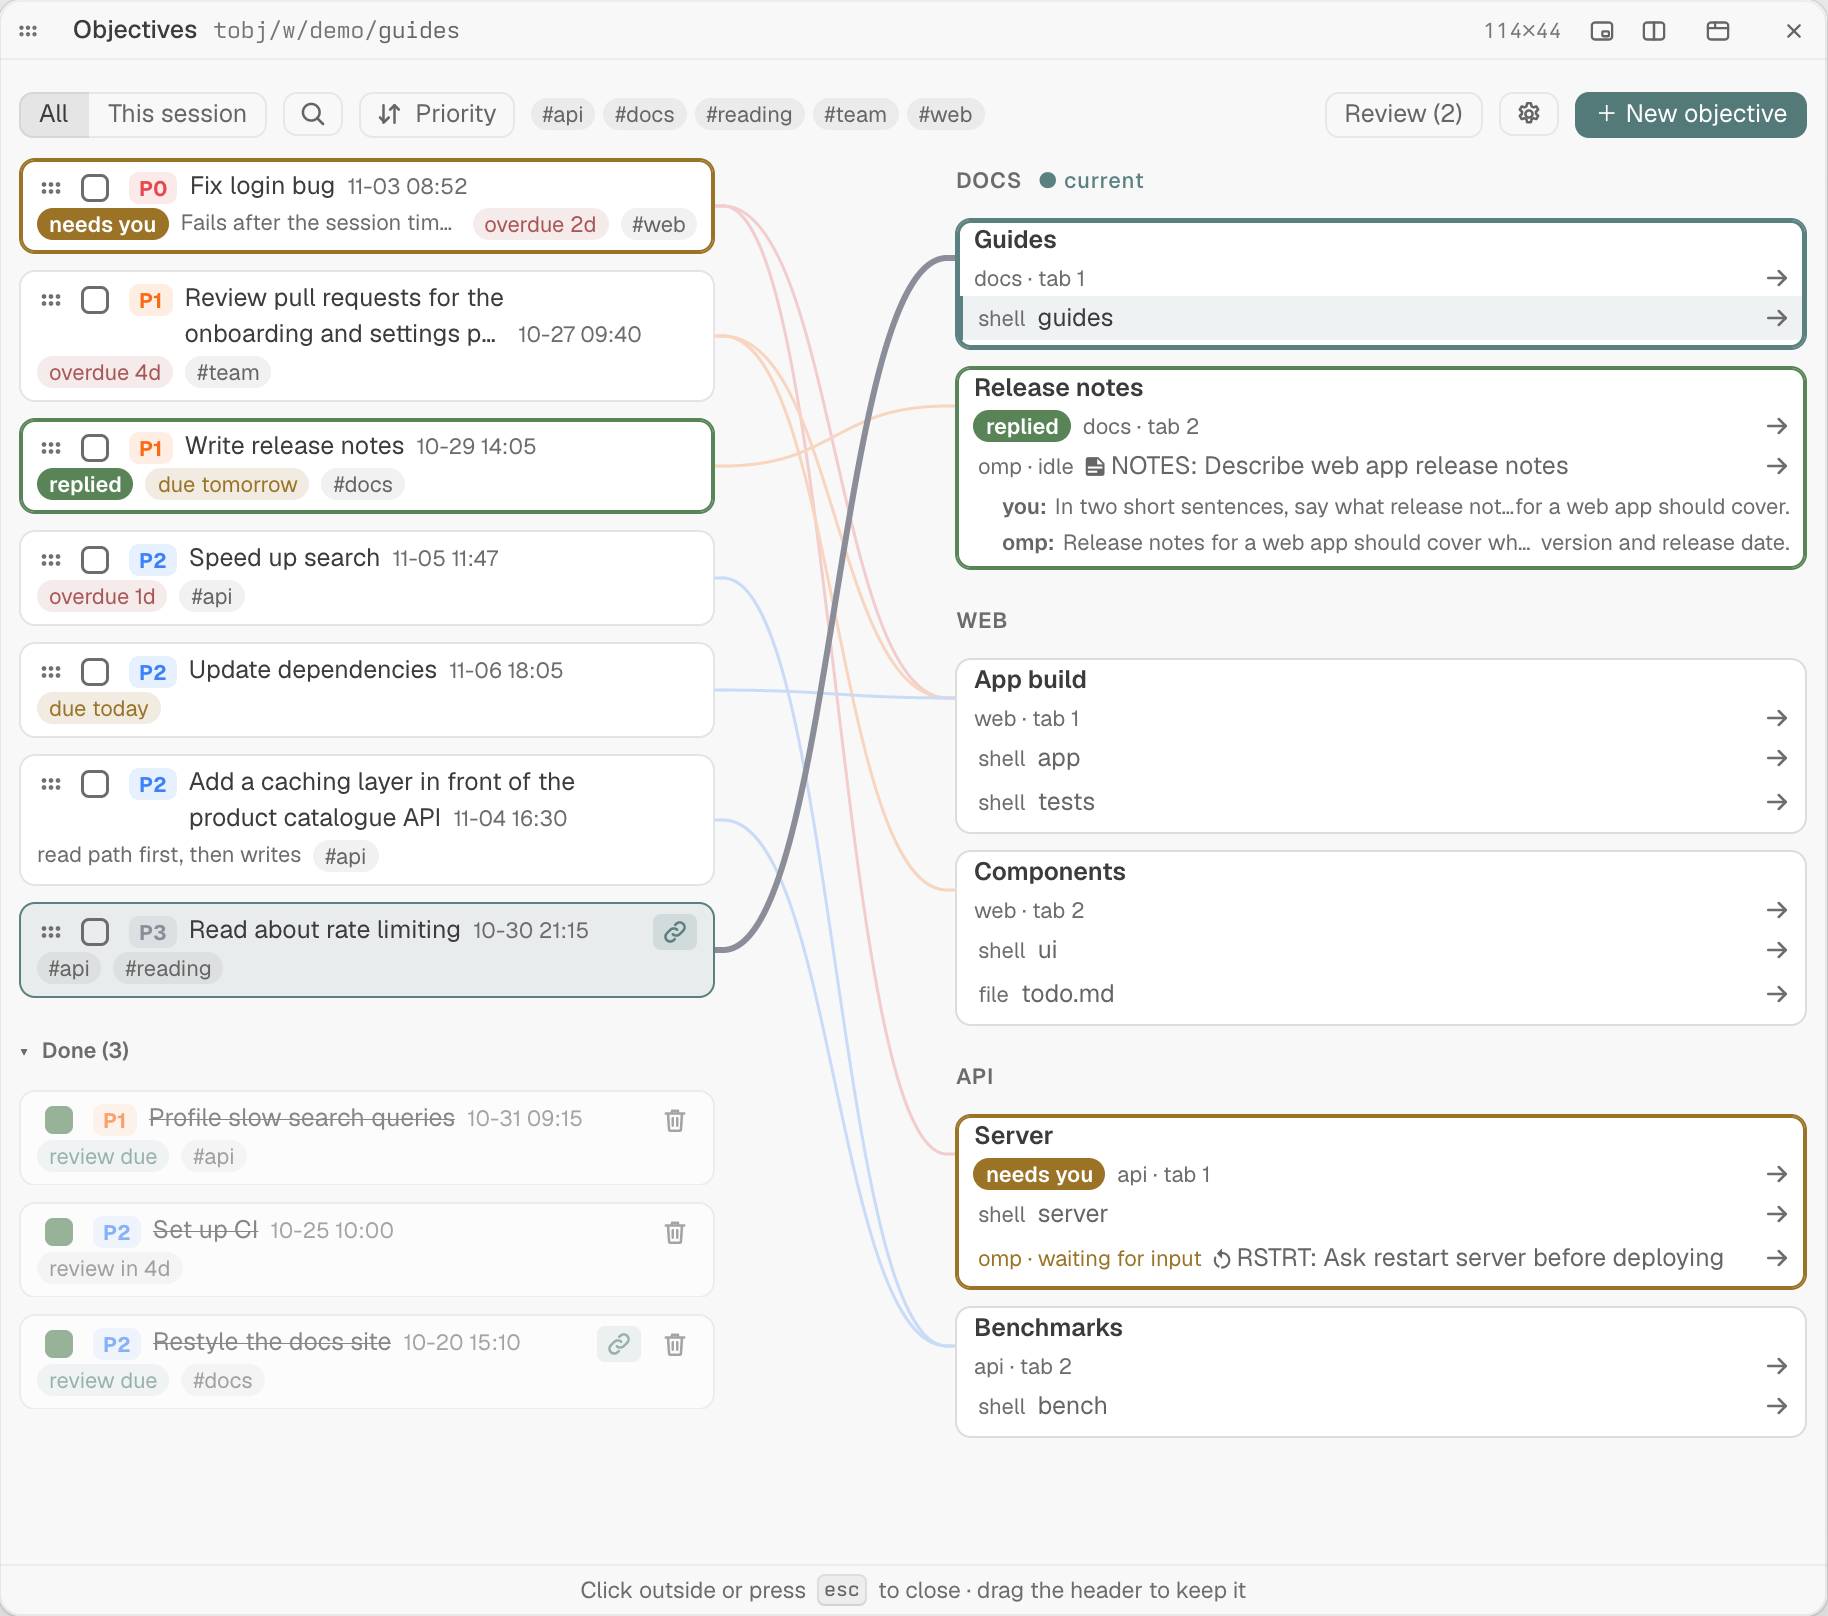
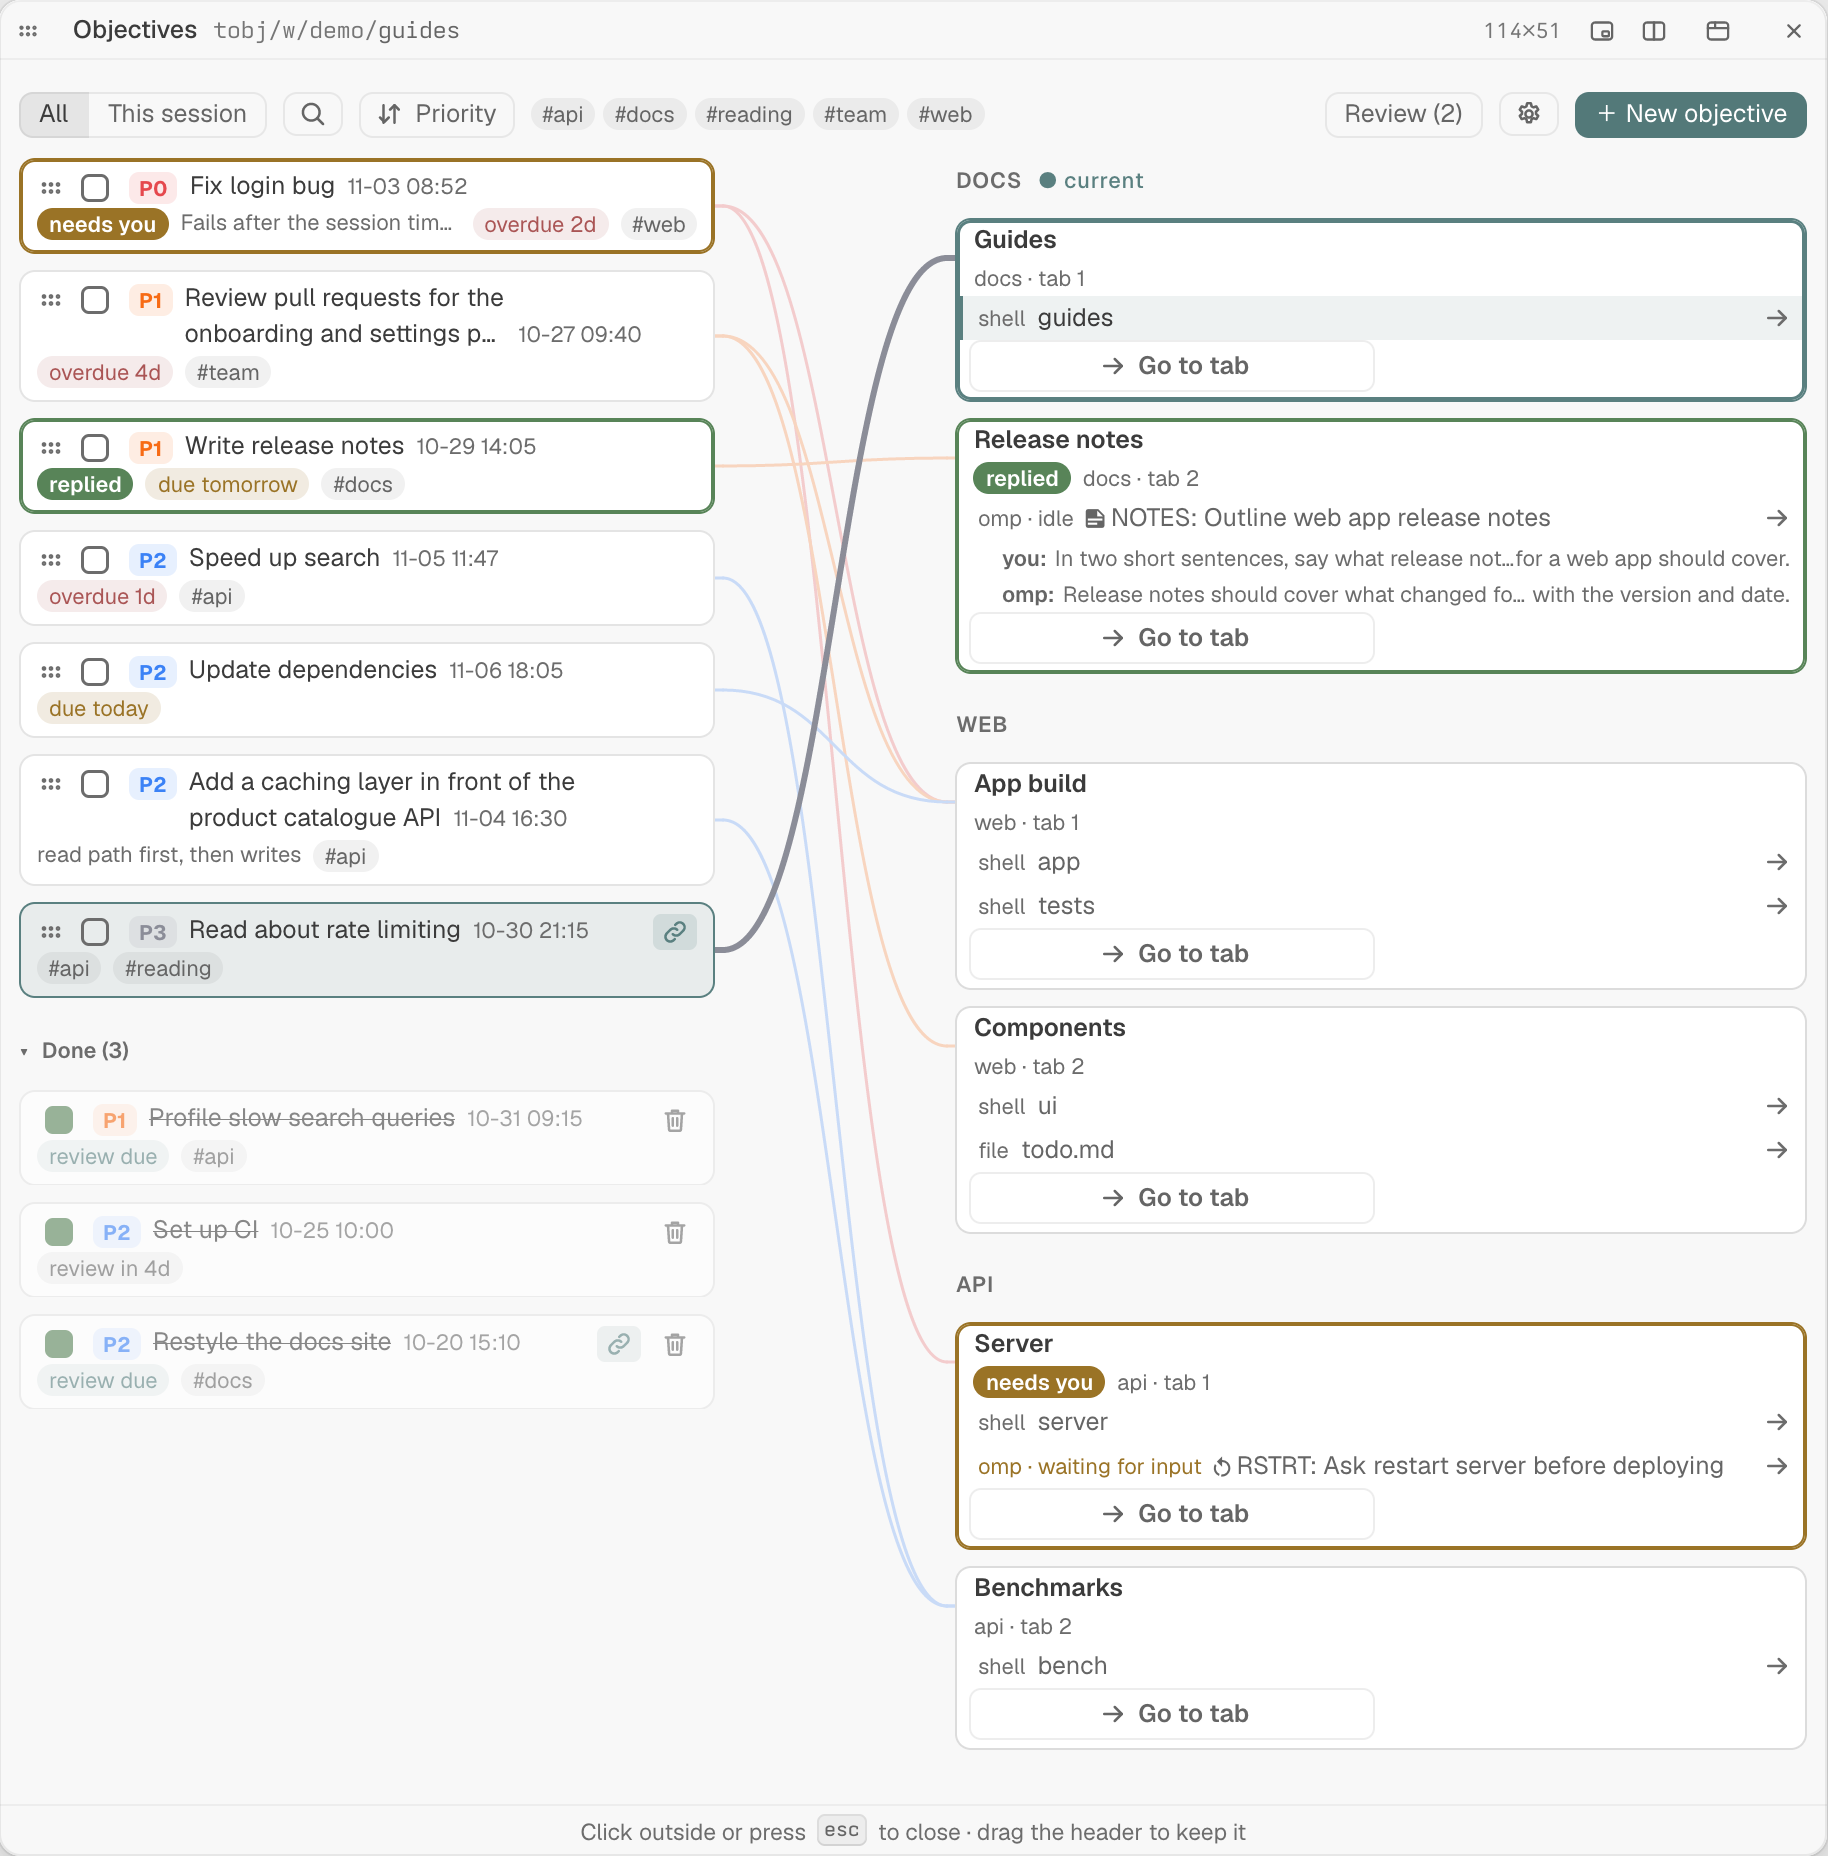
Retake both README screenshots with Go to tab (select-tab-nodes 7.1)

diff --git a/README.md b/README.md
@@ -2,7 +2,7 @@
 
 A [Tern](https://docs.stencil.so/tern) plugin for keeping track of what you are working on across sessions, and for remembering what you finished. It keeps one list of objectives and links each one to the tabs where its work happens, shown as a graph: objectives on the left, tabs on the right, a line for every link. Click a tab to see which objectives it serves, or its **Go to tab** button to jump straight to it, in any session. Finished objectives come back for review on a spaced-repetition schedule, so you revisit what you did before you forget it.
 
-![The objectives graph, opened from the Guides tab: open objectives on the left by priority, P0 first, each with a grip to move it, a priority, due date and tags, two of them with titles wrapped onto two lines; "Fix login bug" ringed in amber with a "needs you" chip, and "Write release notes" in green with "replied"; "Read about rate limiting", which links Guides, tinted, with a thick line to Guides while the other lines fade, and its link icon highlighted at the right of its title; below them the open Done group, also by priority, its objectives marked "review due" or "review in 4d", where "Restyle the docs site", which also links Guides, shows its highlighted link icon beside its trash icon; the header has a Search button and a sort button reading "Priority" after All and This session, "Review (2)", a gear button for Configure and "＋ New objective"; tabs grouped by session on the right, with a line for each link, each tab's header ending in an arrow that goes to it, above its pane rows' arrows: "Release notes" ringed in green with "replied", its open chat row showing "you:" and "omp:", and "Server" ringed in amber with "needs you" for its omp chat waiting for input](docs/graph.png)
+![The objectives graph, opened from the Guides tab: open objectives on the left by priority, P0 first, each with a grip to move it, a priority, due date and tags, two of them with titles wrapped onto two lines; "Fix login bug" ringed in amber with a "needs you" chip, and "Write release notes" in green with "replied"; "Read about rate limiting", which links Guides, tinted, with a thick line to Guides while the other lines fade, and its link icon highlighted at the right of its title; below them the open Done group, also by priority, its objectives marked "review due" or "review in 4d", where "Restyle the docs site", which also links Guides, shows its highlighted link icon beside its trash icon; the header has a Search button and a sort button reading "Priority" after All and This session, "Review (2)", a gear button for Configure and "＋ New objective"; tabs grouped by session on the right, with a line for each link, each tab ending in a "Go to tab" button under its pane rows: "Release notes" ringed in green with "replied", its open chat row showing "you:" and "omp:", and "Server" ringed in amber with "needs you" for its omp chat waiting for input](docs/graph.png)
 
 ## Features
 
@@ -23,7 +23,7 @@ Marking an objective done schedules its first review for the next day, on the SM
 
 Review mode stays on when you close the graph: the next time you open it in the same window, it lists what is due then. Click the active **Review (n)** to leave it. ⌥N leaves it too, so the new objective shows in the list. Restarting Tern forgets it.
 
-![Review mode: two done objectives due for review, each with Hard, Good and Easy buttons showing the days until its next review (Hard · 1d, Good · 3d, Easy · 4d for one, Hard · 2d, Good · 10d, Easy · 14d for the other); the selected one shows its Note and Tags buttons and has a green line to the tab it was linked to, listed under "Linked to" at the top of the right column, where every tab's header ends in an arrow that goes to it and every tab offers "× Unlink" or "＋ Link"; the other links Guides, the tab the graph was opened from, so its link icon is highlighted beside its trash icon; the header has the Search button and the sort button reading "Priority" after All and This session](docs/review.png)
+![Review mode: two done objectives due for review, each with Hard, Good and Easy buttons showing the days until its next review (Hard · 1d, Good · 3d, Easy · 4d for one, Hard · 2d, Good · 10d, Easy · 14d for the other); the selected one shows its Note and Tags buttons and has a green line to the tab it was linked to, listed under "Linked to" at the top of the right column, where every tab ends in a row with "Go to tab" on the left and "× Unlink" or "＋ Link" on the right; the other links Guides, the tab the graph was opened from, so its link icon is highlighted beside its trash icon; the header has the Search button and the sort button reading "Priority" after All and This session](docs/review.png)
 
 ## Install
 

diff --git a/openspec/changes/select-tab-nodes/tasks.md b/openspec/changes/select-tab-nodes/tasks.md
@@ -327,7 +327,7 @@ Checks run in the headless harness at `/tmp/tobj` unless marked **(live)**.
 
 ## 7. The README screenshots again
 
-- [ ] 7.1 Take `docs/graph.png` and `docs/review.png` again, as 2.1 took them, since every live tab now ends in its "Go to tab" row. Update both alt texts to say so. Show both drafts to the user before committing them.
+- [x] 7.1 Take `docs/graph.png` and `docs/review.png` again, as 2.1 took them, since every live tab now ends in its "Go to tab" row. Update both alt texts to say so. Show both drafts to the user before committing them.
 
   Verify:
   - plugin-package "README": "README contents" and "Graph screenshot first";
@@ -335,6 +335,26 @@ Checks run in the headless harness at `/tmp/tobj` unless marked **(live)**.
   - every live tab in both shots ends in "Go to tab", and in `review.png` each tab's link bar sits on its right;
   - every line end in both shots sits within 2 px of its node and tab header centres, read from the layout JSON;
   - the user approved both drafts.
+
+  Result (harness, 2026-11-18, the same serve as 6.1):
+  - **Store and chats:**
+    - the demo store was written again with today's dates;
+    - Server's omp chat was asked to ask "Restart the server before deploying?" and waited for input after 3 s;
+    - with Guides focused, Release notes' chat answered "In two short sentences, say what release notes for a web app should cover." in 3.3 s, `idle` with its alert.
+  - **`graph.png`** (1828 × 1856):
+    - **At the old size** (`ctl resize 1045 928`, 1828 × 1616), the right column ran past the glimpse: Benchmarks started at y 859 and ended at 951, while the glimpse ended at 885, so Server's foot was cut and Benchmarks didn't show (draft `graph_draft2`).
+    - **The shot taken:** at `ctl resize 1045 1060`, the glimpse was 914.31 × 928.2 at 65.34, 82.91. Benchmarks ends at 957.4, above the footer, and the glimpse was cropped there. The user was told of the new height and approved the draft.
+    - **Contents:** opened from Guides, with nothing selected, the pointer at (3, 3), no banners and the Done group open. Marks and tint are as in 2.1. All 7 open nodes have grips, no node has ⋯, and all 6 live tabs end in "Go to tab".
+    - **Line ends:** all 7 left and 6 right within 0.34 px.
+  - **`review.png`** (1828 × 857):
+    - review mode, opened from Guides, with "Profile slow search queries" selected;
+    - Benchmarks under `Linked to` ends in "Go to tab" and "× Unlink", and Guides in "Go to tab" and "＋ Link";
+    - cropped from the glimpse's top to 8 px below the Guides node;
+    - the green line's ends sit within 0.34 px. The gap's other marks were at y 1000 and below, in the footer under the crop.
+  - **Alt texts:** the graph's now says each tab ends in a "Go to tab" button under its pane rows. The review's says each tab ends in a row with "Go to tab" on the left and "× Unlink" or "＋ Link" on the right.
+  - **README checks:** two images, `docs/graph.png` first (line 5), then `docs/review.png` (line 26). "README contents" still holds.
+  - **Approval:** the user approved both drafts before they were committed.
+  - **Cleanup:** the serve was stopped, and the chat folders `--private-tmp-tobj-w-demo-notes--` and `--private-tmp-tobj-w-demo-serverchat--` were removed. The older `--private-tmp-tobj-w-docs--` and `--private-tmp-tobj-w-server--` were left.
 
 ## 8. Release 0.28.2
 
